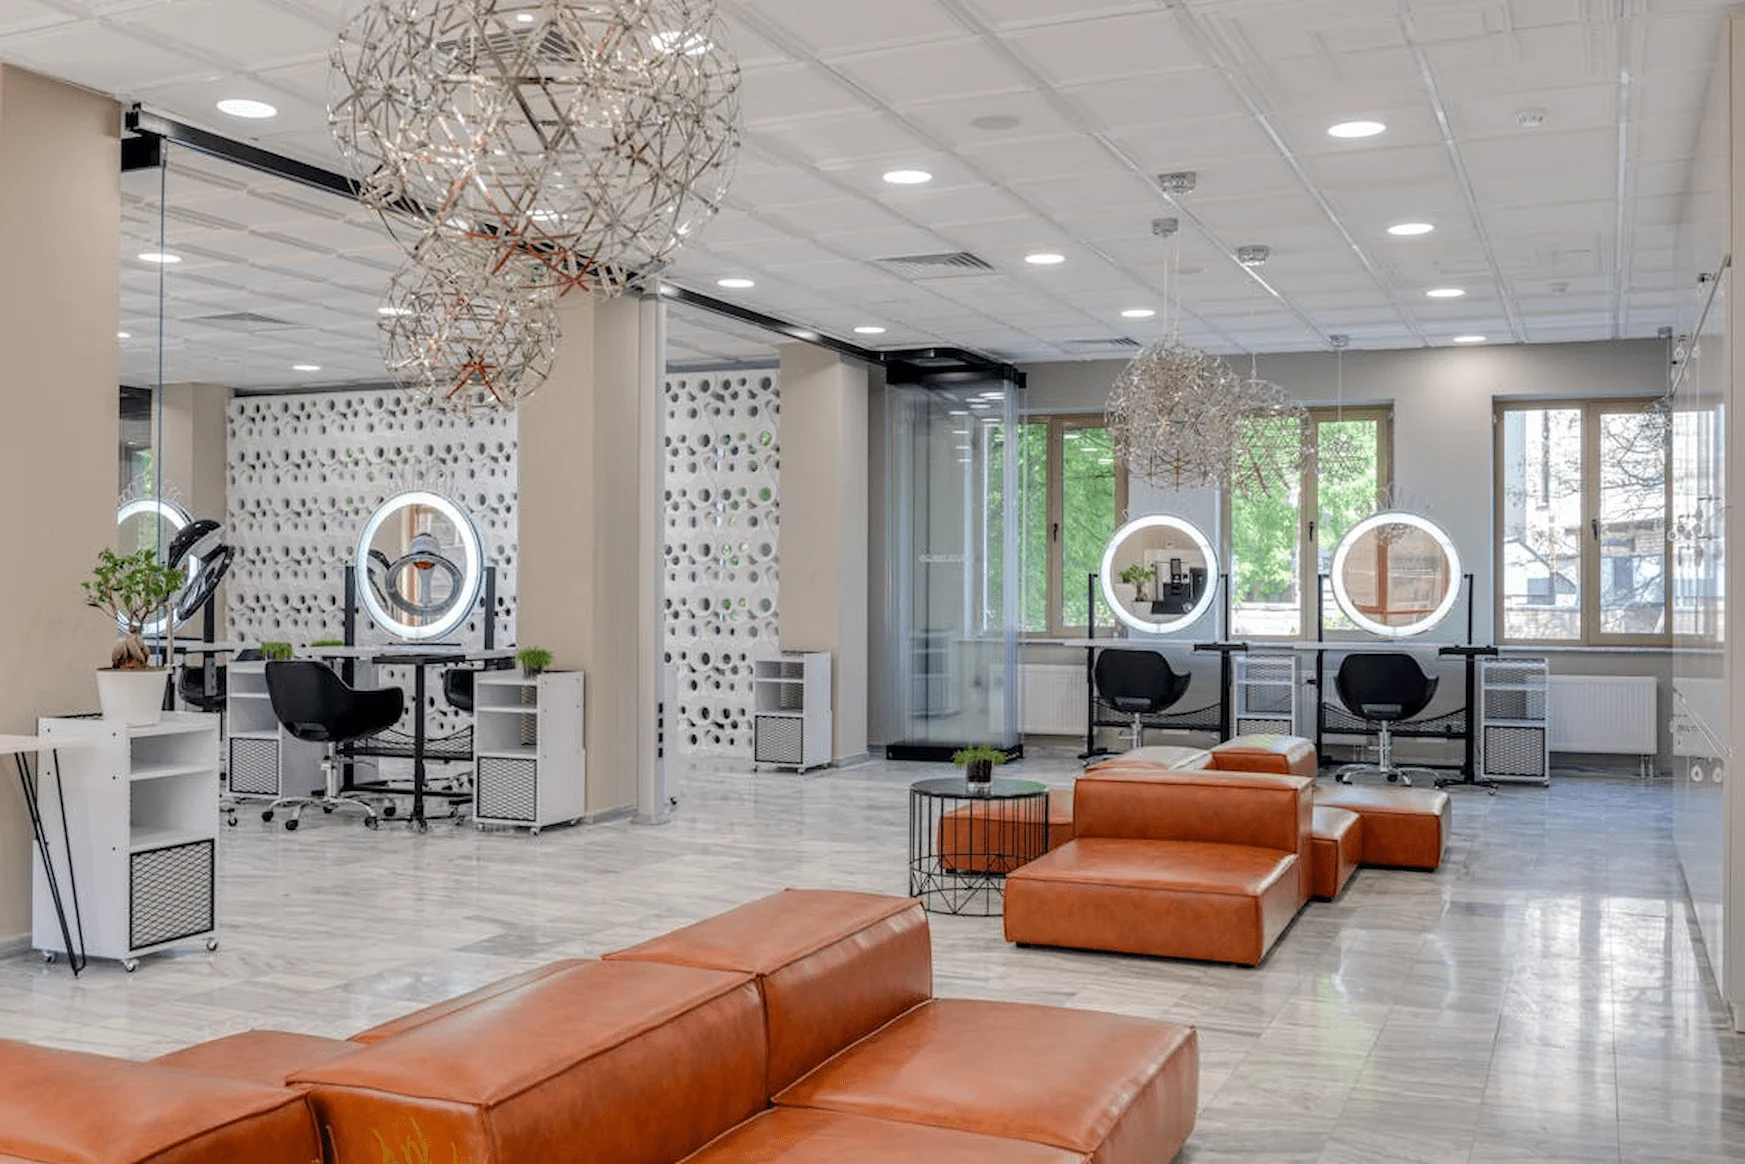
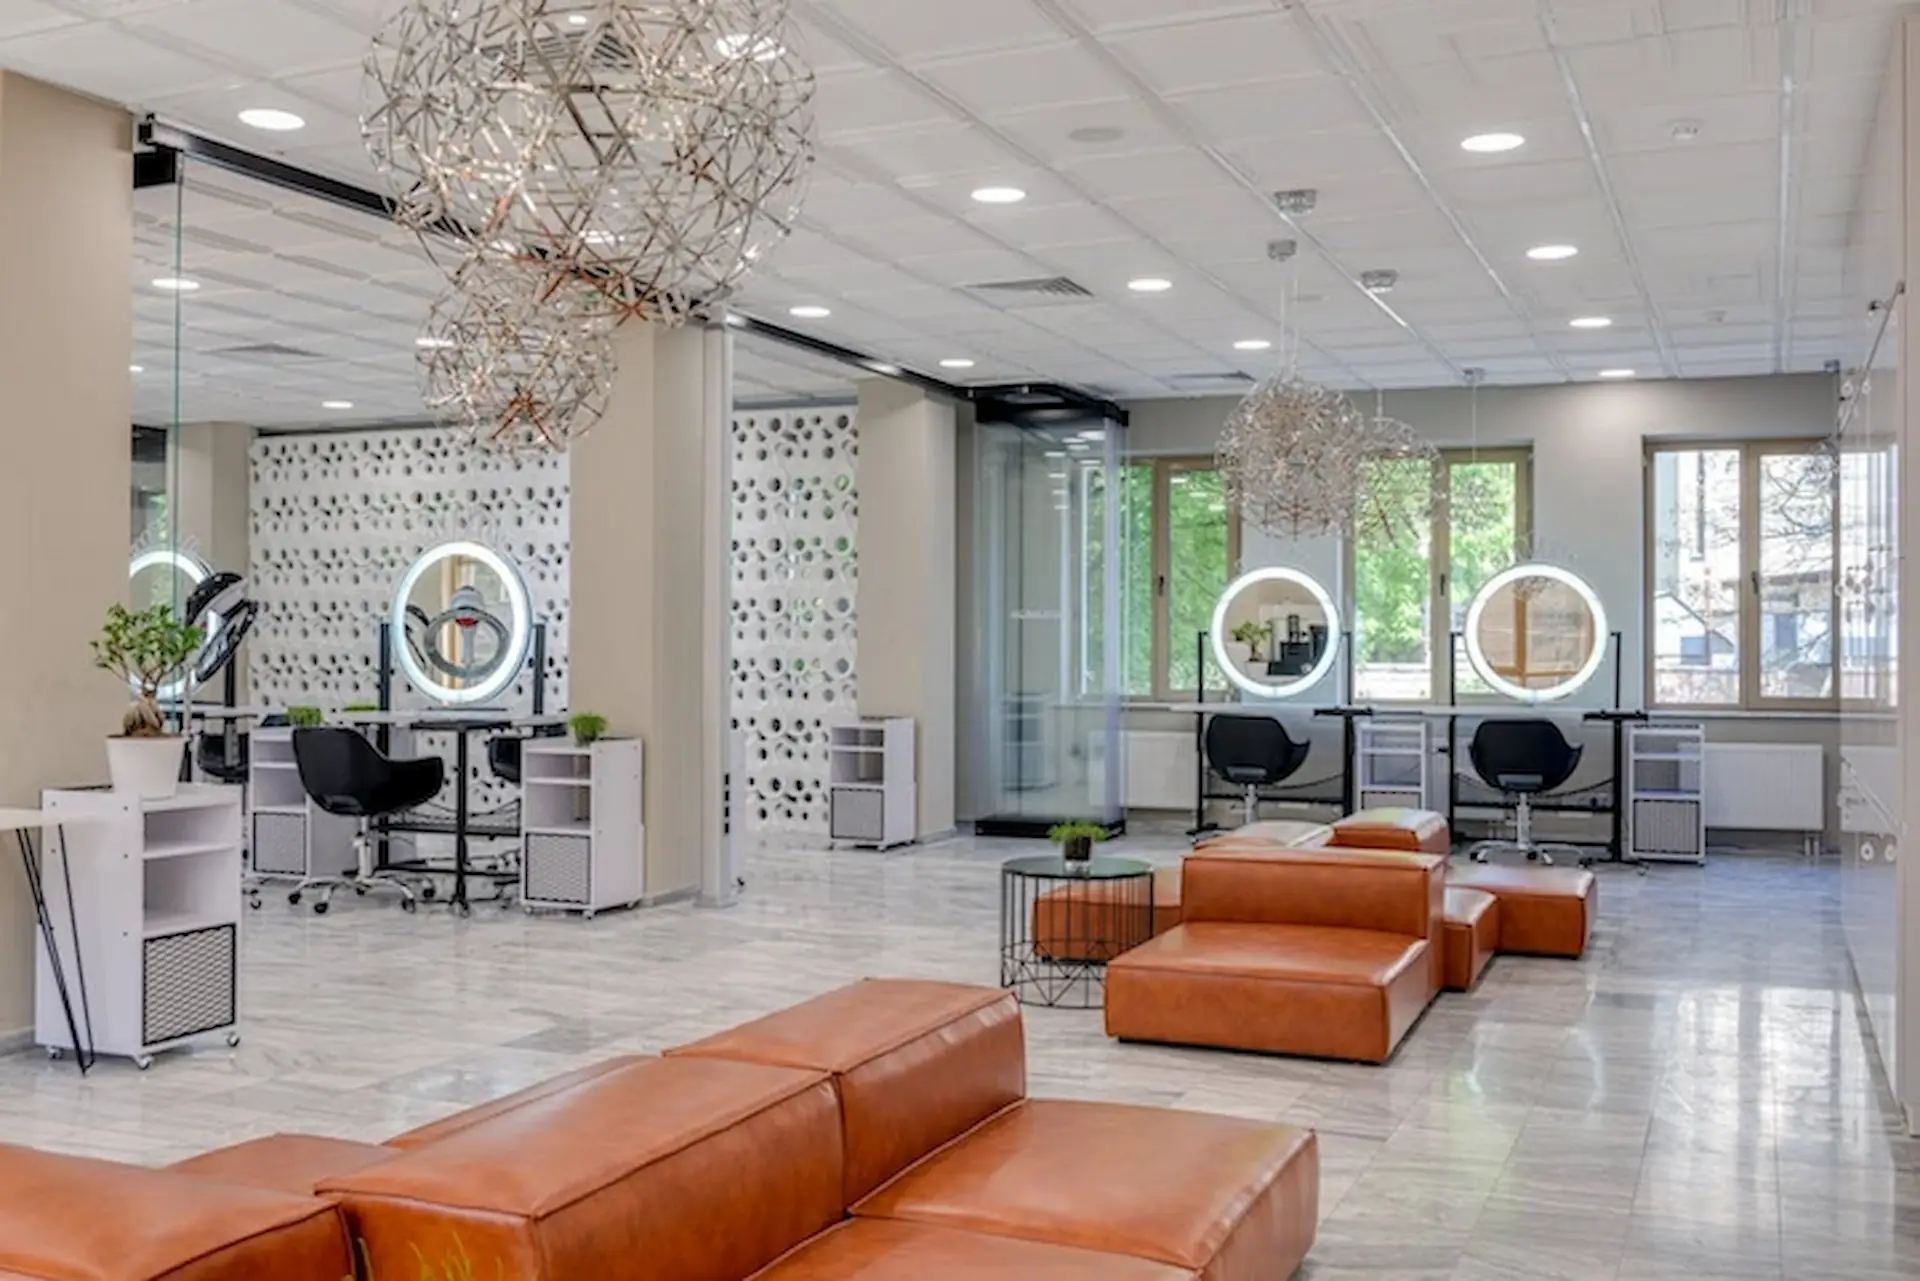
Add compressed images

diff --git a/index.html b/index.html
@@ -3,6 +3,20 @@
   <head>
     <meta charset="UTF-8" />
     <meta name="viewport" content="width=device-width, initial-scale=1.0" />
+    <link
+      rel="preload"
+      fetchpriority="high"
+      as="image"
+      href="/images/hero-big.webp"
+      type="image/webp"
+    />
+    <link
+      rel="preload"
+      fetchpriority="high"
+      as="image"
+      href="/images/hero-small.webp"
+      type="image/webp"
+    />
     <meta
       name="description"
       content="Frizerski Salon K u Augsburgu - Vrhunsko šišanje, bojanje i stiliziranje kose. Rezervirajte svoj termin online."
@@ -419,7 +433,7 @@
         </div>
 
         <div class="hero--img--container">
-          <img
+          <!-- <img
             class="hero-image"
             src="/images/hero-small1.webp"
             srcset="/images/hero-small1.webp 721w, /images/hero-big1.webp 1200w"
@@ -428,6 +442,17 @@
             fetchpriority="high"
             width="1600"
             height="900"
+          /> -->
+
+          <img
+            class="hero-image"
+            src="/images/hero-small1.webp"
+            srcset="/images/hero-small1.webp 800w, /images/hero-big1.webp 1920w"
+            sizes="(max-width: 800px) 100vw, 1920px"
+            width="1920"
+            height="1080"
+            fetchpriority="high"
+            alt="Modern Salon Interior Augsburg"
           />
 
           <div class="img-buttons-container">
